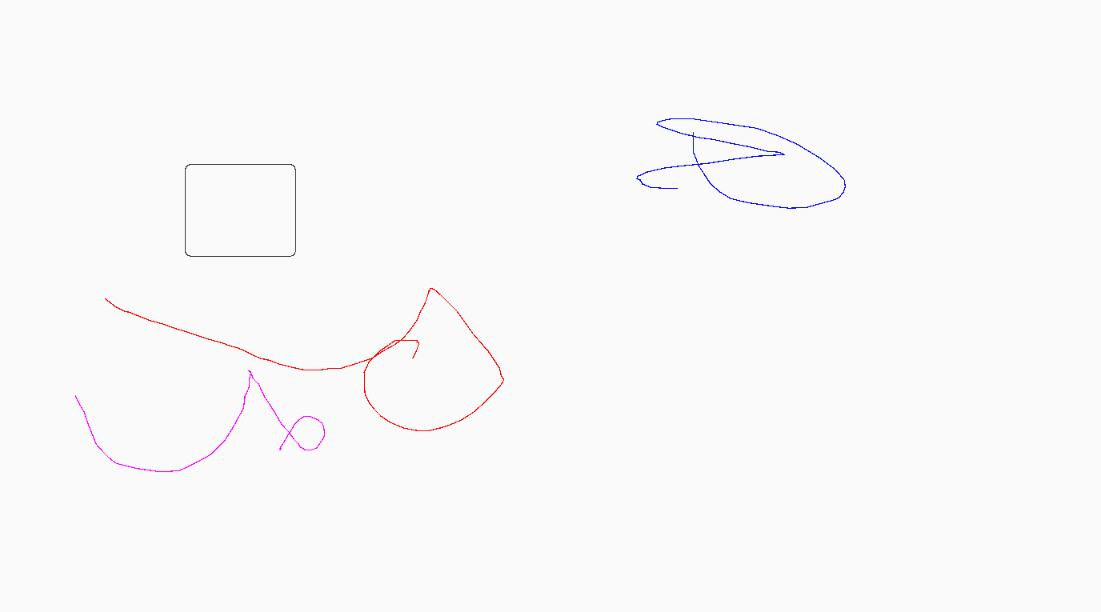
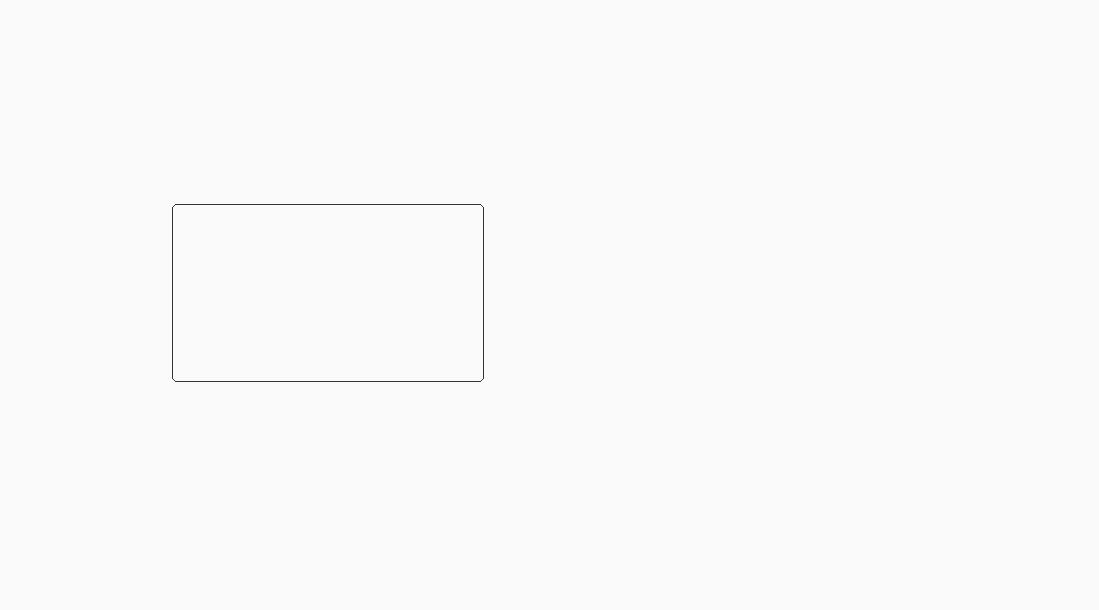
Fix conflict

diff --git a/src/pizarraproject/guicontrols/Pestaña.java b/src/pizarraproject/guicontrols/Pestaña.java
@@ -8,9 +8,10 @@ import javax.swing.event.ChangeListener;
 
 public class Pestaña extends JTabbedPane{
     
-    private ArrayList<Pizarra> pizarras;
+    private static ArrayList<Pizarra> pizarras;
     private ArrayList<String> names;
-    private int index;
+    public static int index;
+    private static Pizarra undoP;
     public Pestaña() throws IOException{
         pizarras = new ArrayList<Pizarra>();
         names = new ArrayList<String>();
@@ -36,7 +37,12 @@ public class Pestaña extends JTabbedPane{
     }
     
     public Pizarra getPizarra(int i){
-        return pizarras.get(i);
+        return pizarras.get(i);                
+    }
+    
+    public static void undo(){        
+        undoP = pizarras.get(index);
+        undoP.remove(); 
     }
     
   ChangeListener changeListener = new ChangeListener() {
